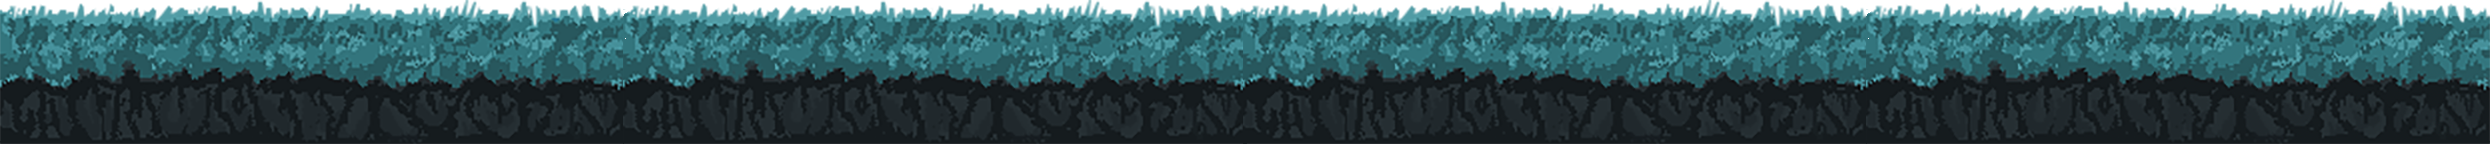
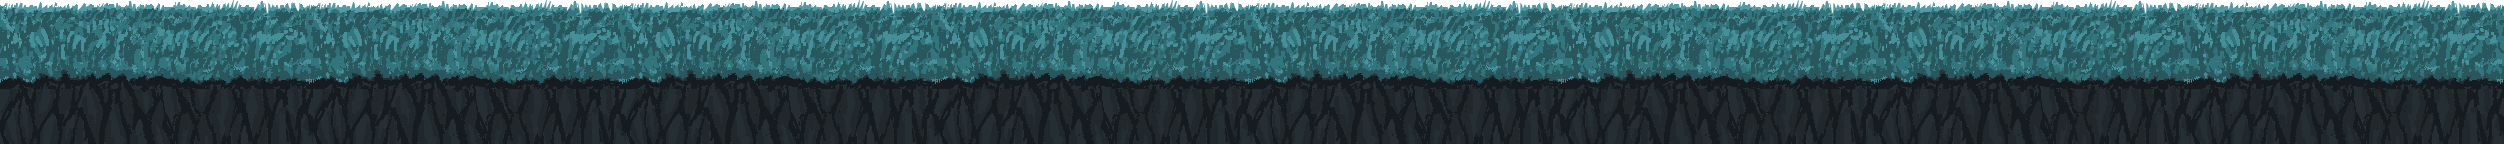
trees been cut son

diff --git a/Lemming-Party/GameScene.m b/Lemming-Party/GameScene.m
@@ -21,6 +21,7 @@ CGFloat rate;
 -(void)didMoveToView:(SKView *)view {
     /* Setup your scene here */
     lemmingArray = [[NSMutableArray alloc] init];
+    trees = [[NSMutableArray alloc] init];
     lemmingBackwards = NO;
     rate = .05;
     CGRect screenRect = [[UIScreen mainScreen] bounds];
@@ -89,12 +90,13 @@ CGFloat rate;
     
     [myWorld addChild:spaceship];
     //Create the tree
-    SKSpriteNode *tree = [SKSpriteNode spriteNodeWithImageNamed:@"shit tree"];
+    SKSpriteNode *tree = [SKSpriteNode spriteNodeWithImageNamed:@"tree1"];
     // tree.anchorPoint = CGPointMake(0, 0);
     tree.position = CGPointMake(518, 350);
-    tree.texture = [SKTexture textureWithImage:[UIImage imageNamed:@"shit tree.png"]];
+    tree.texture = [SKTexture textureWithImage:[UIImage imageNamed:@"tree1.png"]];
     // CGSize treeBodySize = CGSizeMake(30, 130);
     tree.physicsBody = [SKPhysicsBody bodyWithTexture:tree.texture size:tree.size];
+    [trees addObject:tree];
     for(int i = 0; i <10 ; i++){
         SKSpriteNode *lemmingLife = [SKSpriteNode spriteNodeWithImageNamed:@"lemming"];
         lemmingLife.position = CGPointMake(20*(i+1), 650);
@@ -133,9 +135,69 @@ CGFloat rate;
     //[self delete:lifeIcon];
 }
 -(void) touchesBegan:(NSSet *)touches withEvent:(UIEvent *)event {
+    UITouch* touch = [touches anyObject];
+    CGPoint location = [touch locationInNode:[self childNodeWithName:@"world"]];
+    SKPhysicsBody* body = [self.physicsWorld bodyAtPoint:location];
+    if(body && [body.node.name isEqualToString:@"tree"]){
+        
     
-  //  [self killLemming];
-    //NSLog(@"Array %@", lemmingArray);
+    
+    treeTouched++;
+    if(treeTouched == 1){
+        SKSpriteNode *tree = [trees objectAtIndex:0];
+        [tree removeFromParent];
+        [trees removeAllObjects];
+        
+  
+        
+    
+        SKSpriteNode *tree2 = [SKSpriteNode spriteNodeWithImageNamed:@"tree2"];
+        // tree.anchorPoint = CGPointMake(0, 0);
+        tree2.position = CGPointMake(518, 350);
+        tree2.texture = [SKTexture textureWithImage:[UIImage imageNamed:@"tree2.png"]];
+        // CGSize treeBodySize = CGSizeMake(30, 130);
+        tree2.physicsBody = [SKPhysicsBody bodyWithTexture:tree2.texture size:tree2.size];
+        tree2.physicsBody.allowsRotation = NO;
+        tree2.physicsBody.mass = 9999999999;
+        tree2.physicsBody.categoryBitMask = objectCategory;
+        tree2.physicsBody.collisionBitMask = lemmingCategory;
+        tree2.physicsBody.dynamic = NO;
+        tree2.name = treeName;
+        [trees addObject:tree2];
+        [[self childNodeWithName:@"world"] addChild:tree2];
+        return;
+
+    }
+        if(treeTouched == 2){
+            SKSpriteNode *tree = [trees objectAtIndex:0];
+            [tree removeFromParent];
+            [trees removeAllObjects];
+            
+            
+            
+            
+            SKSpriteNode *tree3 = [SKSpriteNode spriteNodeWithImageNamed:@"tree3"];
+            // tree.anchorPoint = CGPointMake(0, 0);
+            tree3.position = CGPointMake(518, 350);
+            tree3.texture = [SKTexture textureWithImage:[UIImage imageNamed:@"tree3.png"]];
+            // CGSize treeBodySize = CGSizeMake(30, 130);
+            tree3.physicsBody = [SKPhysicsBody bodyWithTexture:tree3.texture size:tree3.size];
+            tree3.physicsBody.allowsRotation = NO;
+            tree3.physicsBody.mass = 9999999999;
+            tree3.physicsBody.categoryBitMask = objectCategory;
+            tree3.physicsBody.collisionBitMask = lemmingCategory;
+            tree3.physicsBody.dynamic = NO;
+            tree3.name = treeName;
+            [trees addObject:tree3];
+            [[self childNodeWithName:@"world"] addChild:tree3];
+            return;
+            
+        }
+
+    }
+}
+-(void) touchesEnded:(NSSet *)touches withEvent:(UIEvent *)event{
+    
 }
 //change yo
 -(void)createAmountOfLemmings:(int)count: (SKNode *) myWorld {
@@ -196,7 +258,6 @@ CGFloat rate;
         rate *= -1;
     }
 }
- // wait(10);
 
 -(void) touchesMoved:(NSSet *)touches withEvent:(UIEvent *)event{
     UITouch* touch = [touches anyObject];

diff --git a/Lemming-Party/GameScene.h b/Lemming-Party/GameScene.h
@@ -20,5 +20,6 @@ int treeTouched;
 NSString* treeName;
 NSMutableArray *lemmingArray;
 NSMutableArray *lemmingLives;
+NSMutableArray *trees;
 // World node - add every sprite to this
 SKNode *world;
